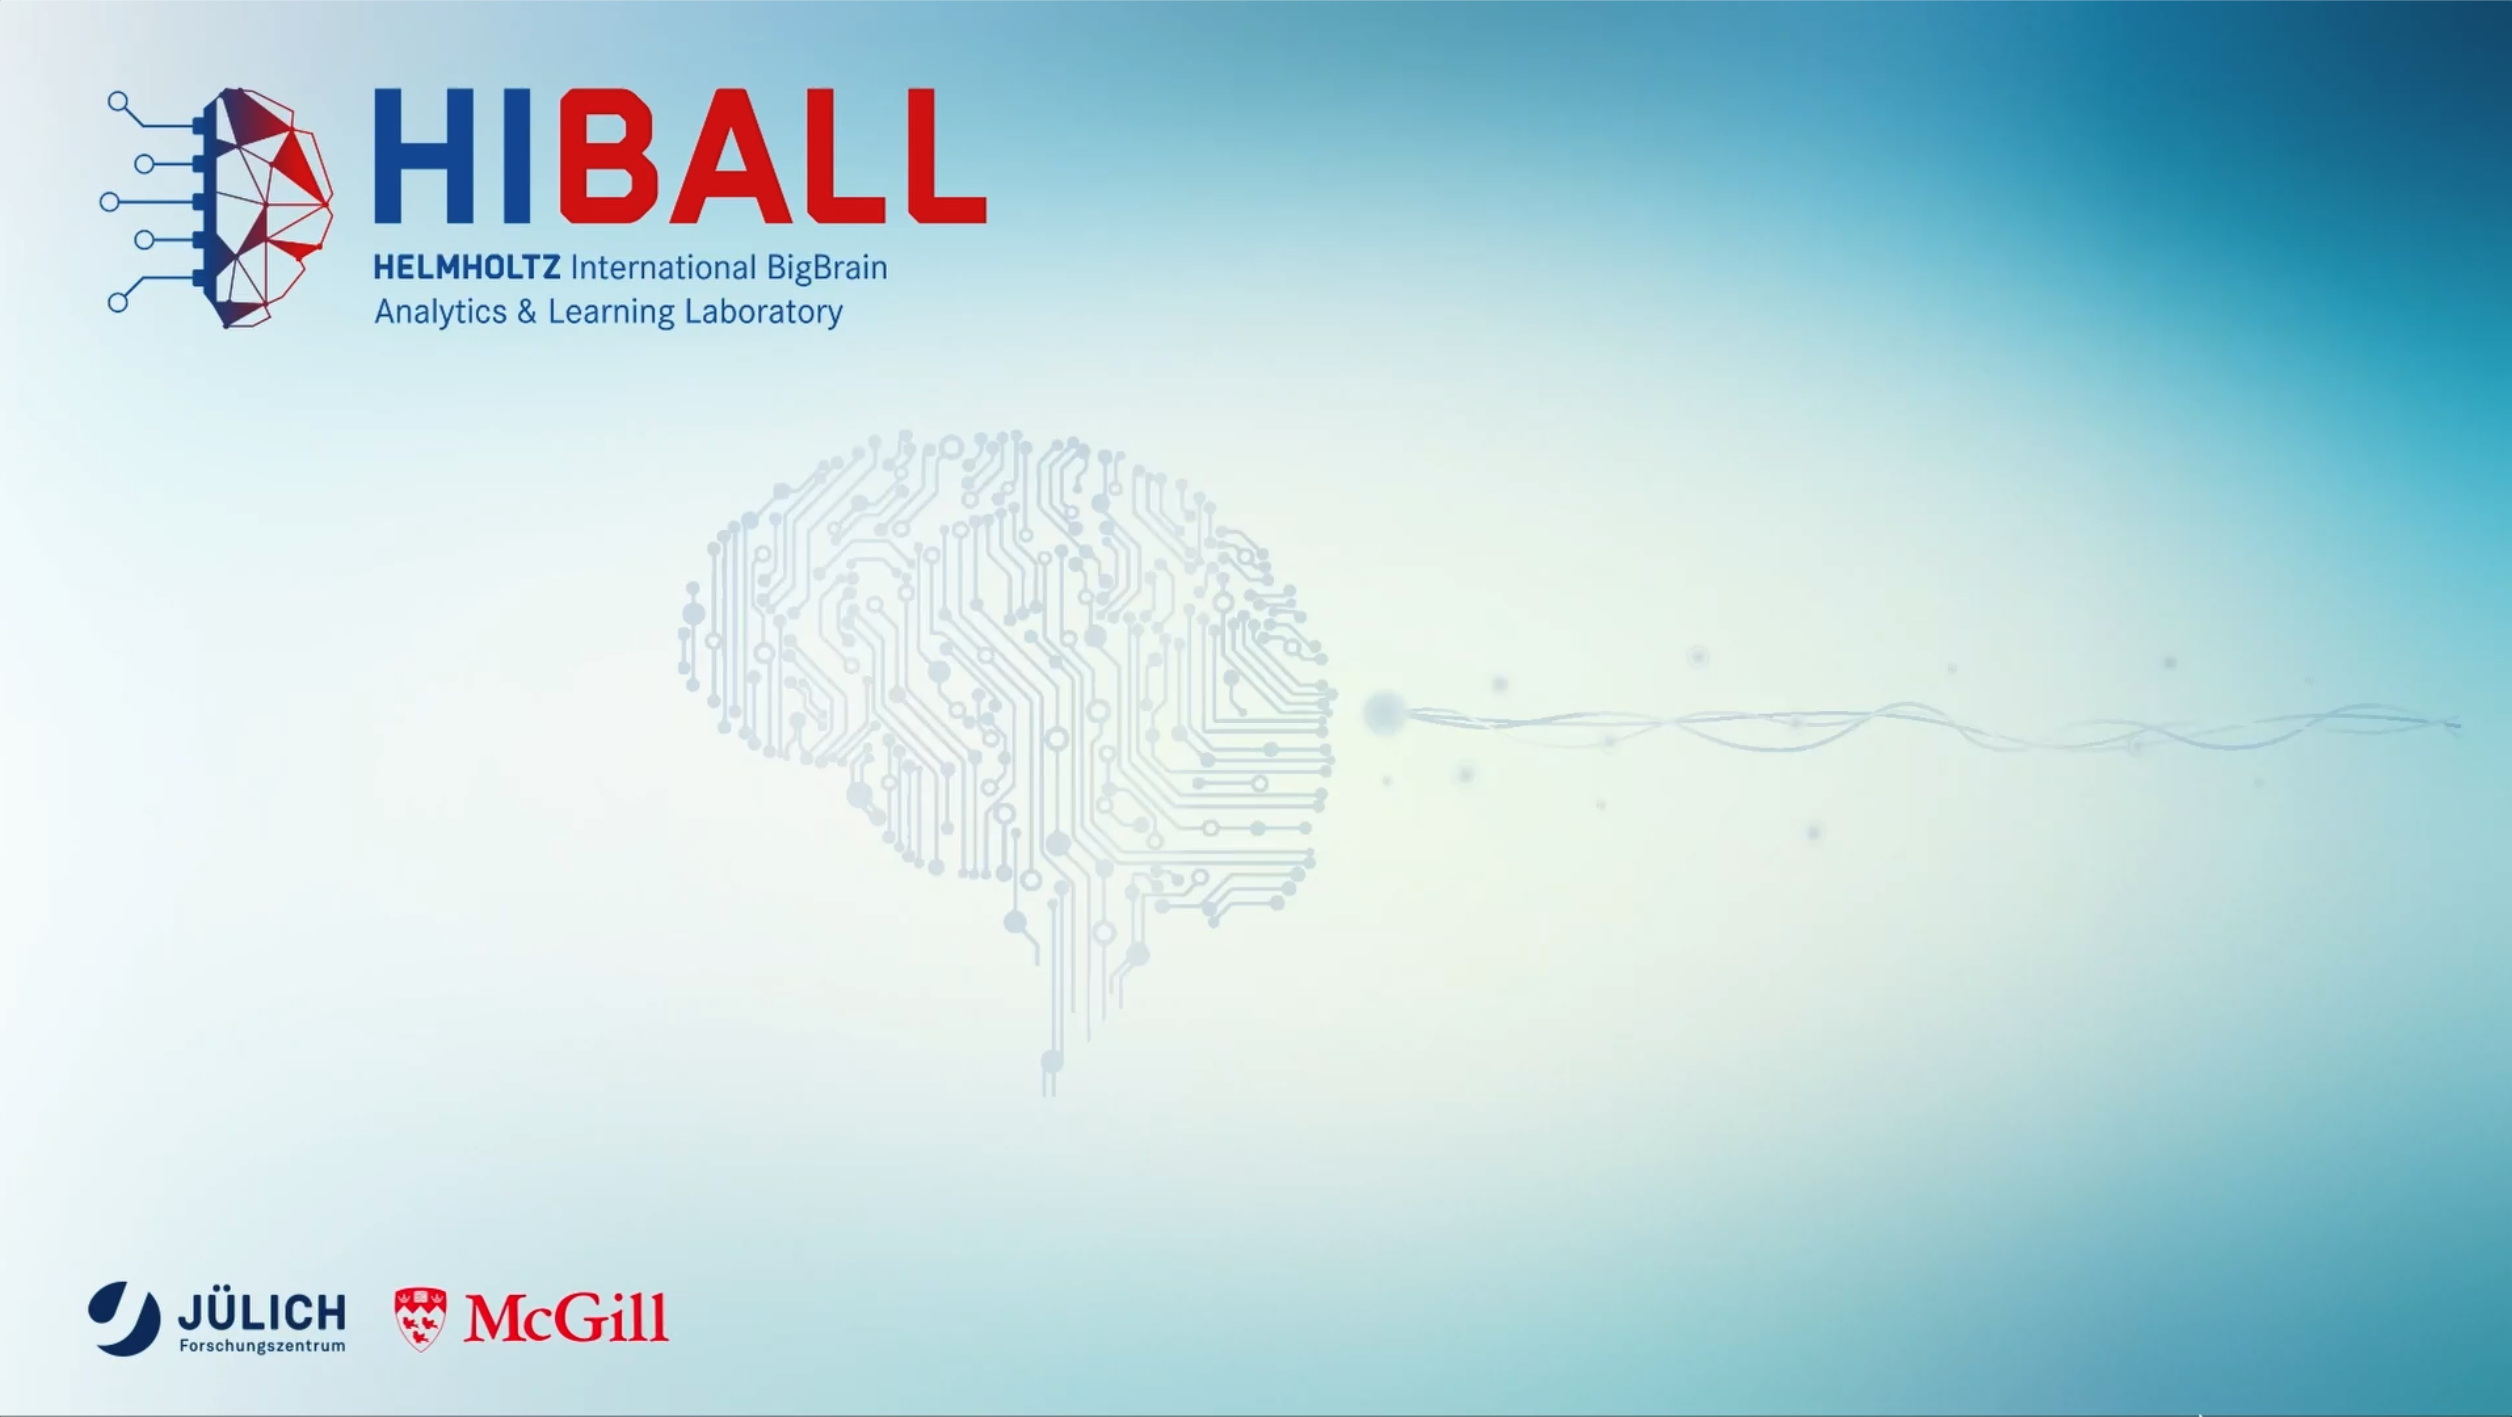
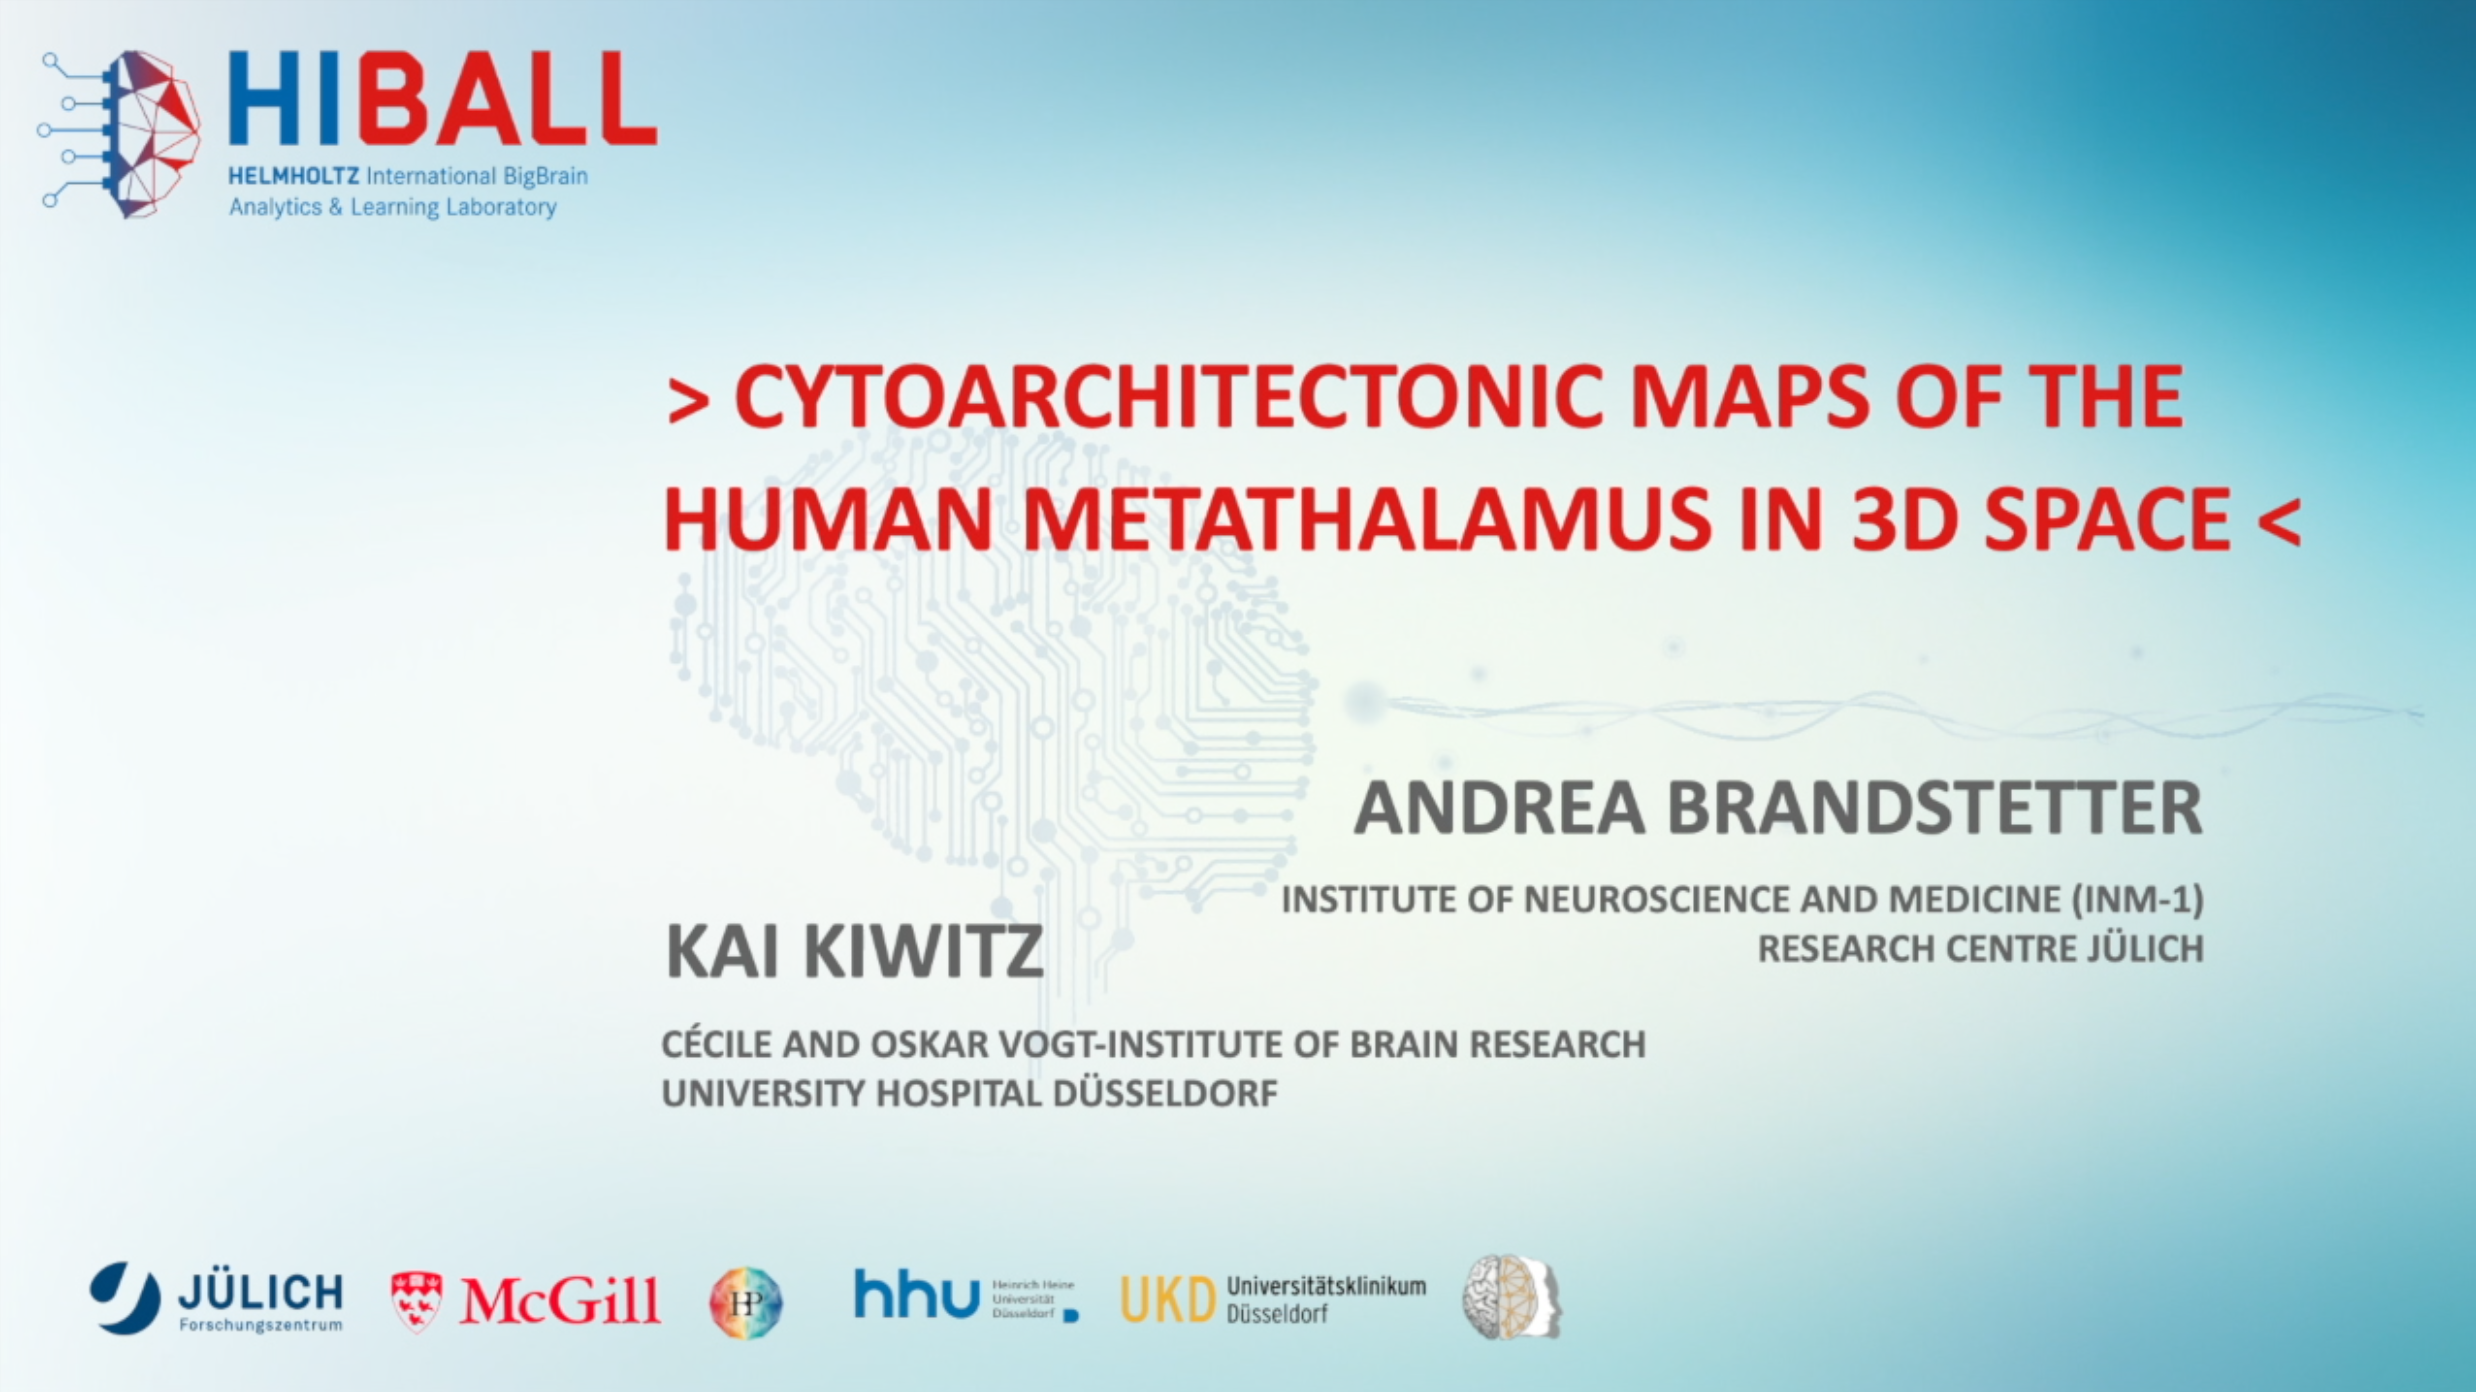
#178 added featured project to index, featured, and YT

diff --git a/index.html b/index.html
@@ -133,6 +133,18 @@
         </div> -->
           <div class="slider-card-holder">
             <div class="frontpage-card" data-mh="cards">
+              <div class="small-spacer">
+                <iframe  src="https://www.youtube.com/embed/TpKwpD1G0kw" title="YouTube video player" frameborder="0" allow="accelerometer; autoplay; clipboard-write; encrypted-media; gyroscope; picture-in-picture" allowfullscreen></iframe>
+              </div>
+              <div class="tool-name">Featured: Cytoarchitectonic Maps of the Human Metathalamus in 3D space</div>
+              <div class="tool-maker"><em>date: Feb 14 2022</em></div>
+              <div class="tool-description">Two new maps in the BigBrain available, Medial geniculate body and Lateral Geniculate Body by Kai Kiwitz and Andrea Brandstetter 
+              </div>
+              <a href="featured.html" class="tool-link">go to featured <i class="fas fa-arrow-right"></i></a><br>
+            </div>
+          </div>
+          <div class="slider-card-holder">
+            <div class="frontpage-card" data-mh="cards">
               <img src="images/news/2022_yashar_zeighami-2.png" class="card-image-square">
               <div class="tool-name">Yashar Zeighami appointed Assistant Professor </div>
               <div class="tool-maker"><em>date:</em> Feb 9 2022</div>
@@ -214,7 +226,7 @@
               <a href="featured.html" class="tool-link">go to featured <i class="fas fa-arrow-right"></i></a><br>
             </div>
           </div>
-          <div class="slider-card-holder">
+          <!-- <div class="slider-card-holder">
             <div class="frontpage-card" data-mh="cards">
               <img src="images/news/research-in-germany.png" class="card-image-square">
               <div class="tool-name">Mapping the brain</div>
@@ -224,7 +236,7 @@
               </div>
               <a href="https://www.research-in-germany.org/en/spotlight/global_health/mapping-the-brain.html" class="tool-link">Read More <i class="fas fa-arrow-right"></i></a>
             </div>
-          </div>
+          </div> -->
         <!-- <div class="slider-card-holder">
           <div class="frontpage-card" data-mh="cards">
             <img src="images/news/main2021.png" class="card-image-square">

diff --git a/featured.html b/featured.html
@@ -93,10 +93,10 @@
     <div class="grid-container">
       <div class="hero-content-grid">
         <div class="hero-content-container">
-          <h1>Featured Scholar: Jordan DeKraker</h1>
-          <p>The BigBrain Project “Featured” series introduces scholars who participate in this initiative and highlights their research focusing on the BigBrain and related datasets and tools.</p>
+          <h1>Featured: Cytoarchitectonic Maps of the Human Metathalamus in 3D space</h1>
+          <p>Two new maps in the BigBrain available, Medial geniculate body and Lateral Geniculate Body by Kai Kiwitz and Andrea Brandstetter</p>
           <div class="hero-flex">
-            <a href="https://youtu.be/sheS62GV5o8"><button>Go to youtube</button></a>
+            <a href="https://www.youtube.com/watch?v=TpKwpD1G0kw"><button>Go to youtube</button></a>
           </div> 
         </div>
       </div>
@@ -210,6 +210,18 @@
           <h2 class="full-width text-center">Featured Projects</h2>
           <div id="slick-slider-2" class="slider">
             <!-- start cards -->
+            <div class="slider-card-holder">
+              <div class="frontpage-card" data-mh="cards">
+                <div class="small-spacer">
+                  <iframe  src="https://www.youtube.com/embed/TpKwpD1G0kw" title="YouTube video player" frameborder="0" allow="accelerometer; autoplay; clipboard-write; encrypted-media; gyroscope; picture-in-picture" allowfullscreen></iframe>
+                </div>
+                <div class="tool-name">Featured: Cytoarchitectonic Maps of the Human Metathalamus in 3D space</div>
+                <div class="tool-maker"><em>date: Feb 14 2022</em></div>
+                <div class="tool-description">Two new maps in the BigBrain available, Medial geniculate body and Lateral Geniculate Body by Kai Kiwitz and Andrea Brandstetter 
+                </div>
+                <a href="https://www.youtube.com/watch?v=TpKwpD1G0kw" class="tool-link">go to youtube <i class="fas fa-arrow-right"></i></a><br>
+              </div>
+            </div>
             <div class="slider-card-holder">
               <div class="frontpage-card" data-mh="cards">
                 <img src="images/featured/featured-4.png" class="card-image-square">
